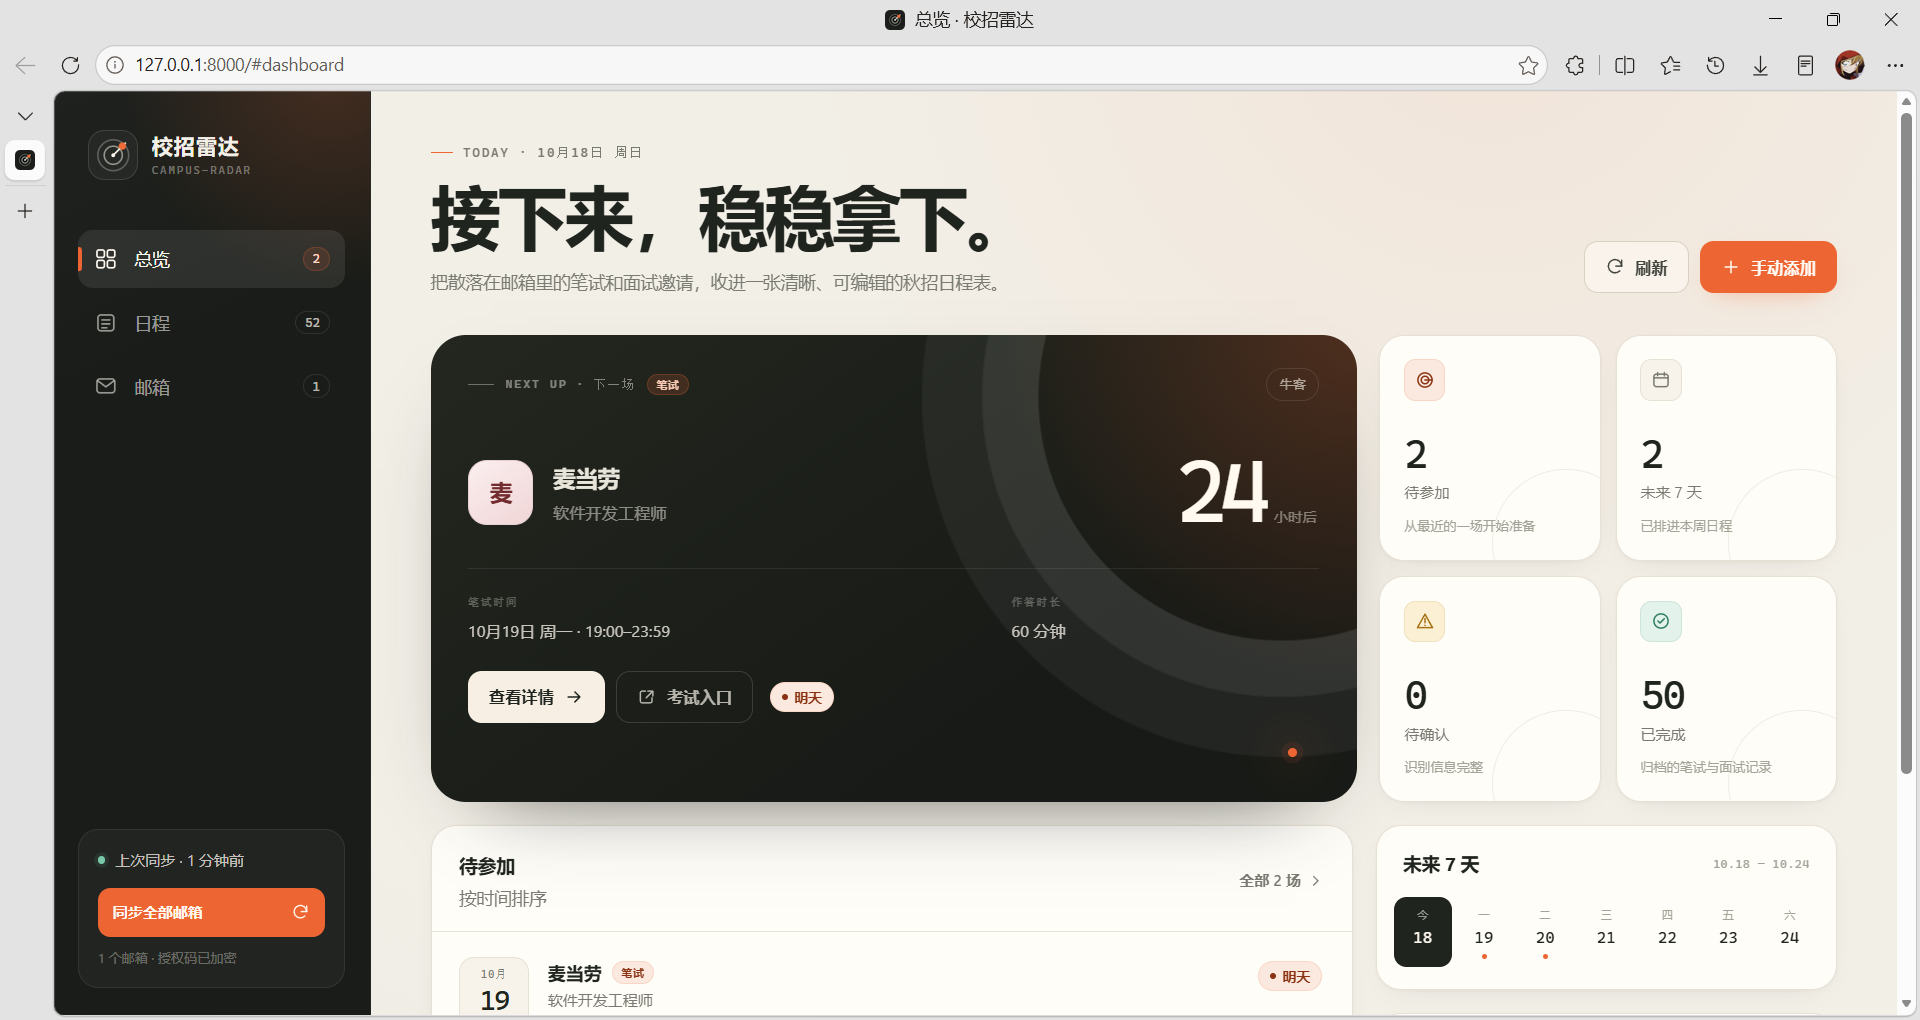
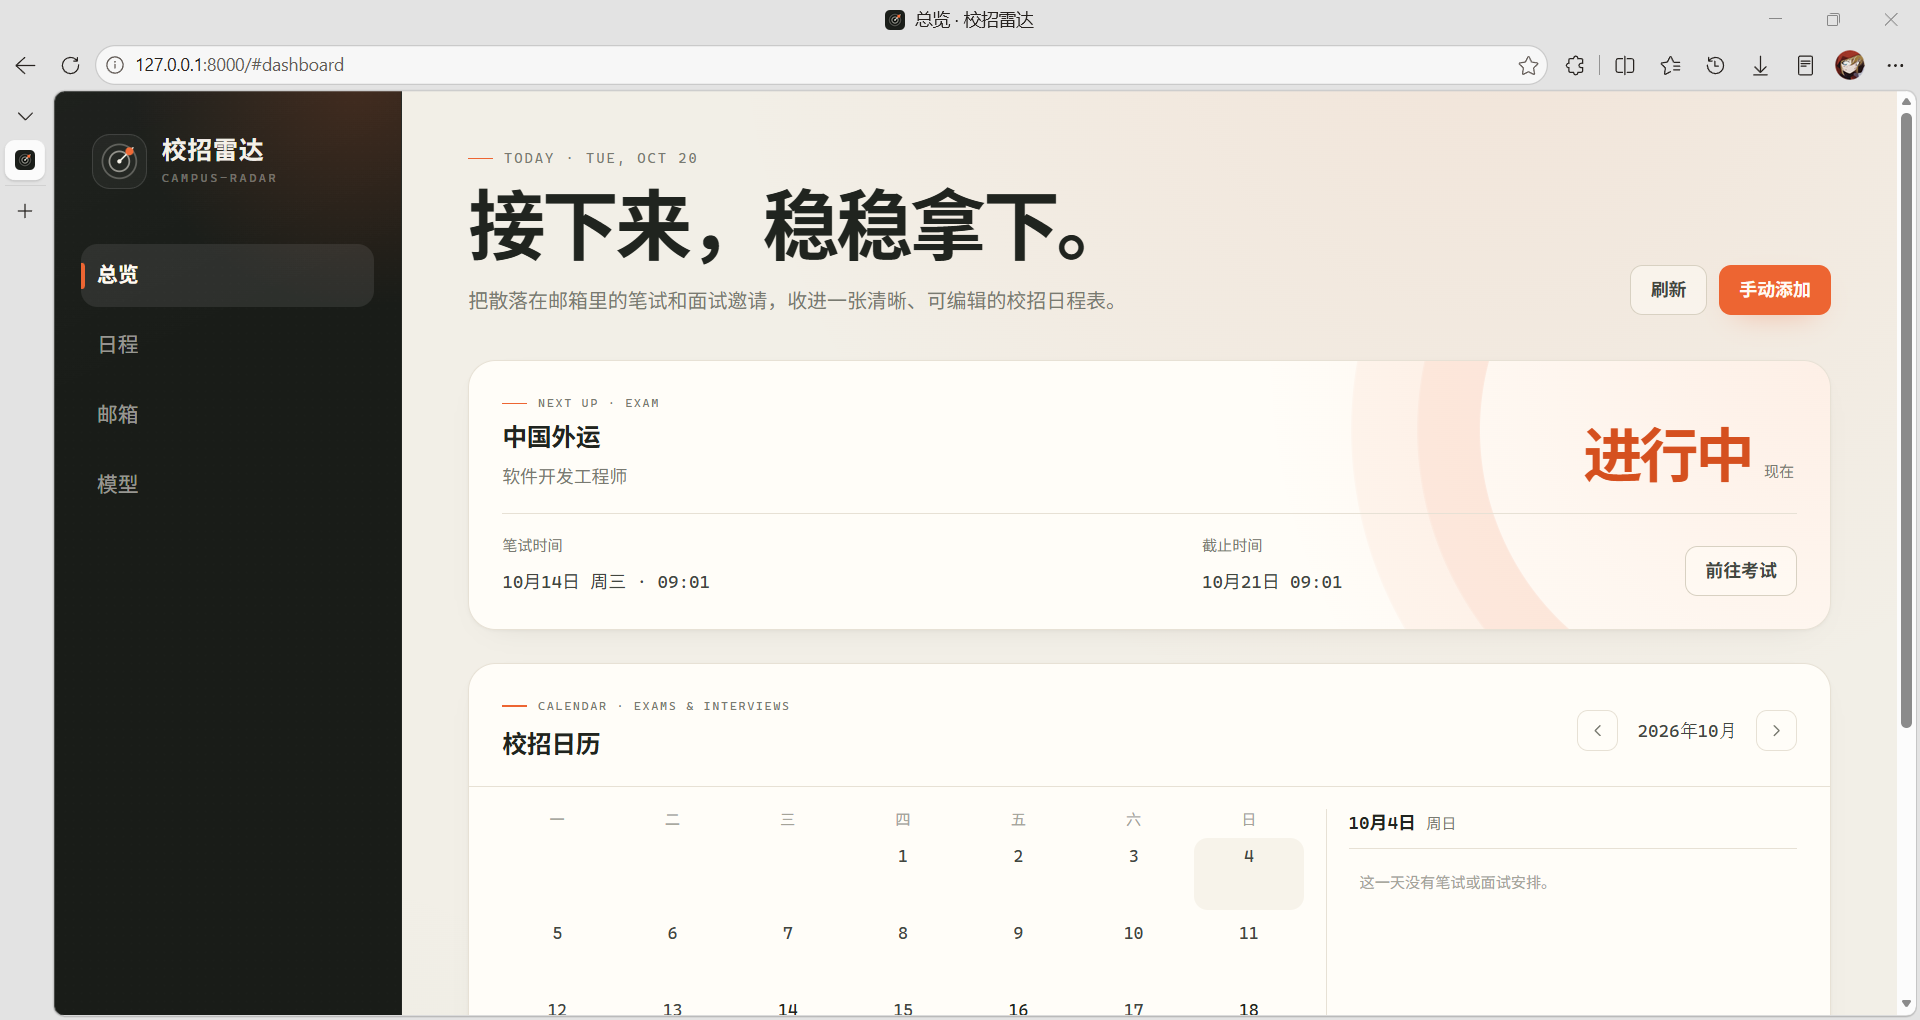
docs: refresh README and unify entry link label

diff --git a/static/app.js b/static/app.js
@@ -441,7 +441,7 @@ function eventNoun(event) {
 }
 
 function eventLinkLabel(event) {
-  return isInterviewEvent(event) ? "面试入口" : "考试入口";
+  return isInterviewEvent(event) ? "前往面试" : "前往考试";
 }
 
 function modeLabel(mode) {
@@ -1251,7 +1251,7 @@ function renderLibraryRow(event) {
       <span class="library-status ${status.className}">${escapeHtml(status.label)}</span>
     </button>
     <div class="library-row-actions">
-      ${url ? `<a class="quick-action keep-mobile" href="${escapeHtml(url)}" target="_blank" rel="noopener noreferrer" title="打开${eventLinkLabel(event)}" aria-label="打开${eventLinkLabel(event)}">${icon("external", 14)}</a>` : ""}
+      ${url ? `<a class="quick-action keep-mobile" href="${escapeHtml(url)}" target="_blank" rel="noopener noreferrer" title="${eventLinkLabel(event)}" aria-label="${eventLinkLabel(event)}">${icon("external", 14)}</a>` : ""}
       <button class="quick-action keep-mobile${isDone ? " is-done" : ""}" type="button" data-action="toggle-done" data-id="${event.id}" title="${isDone ? "标记为待参加" : "标记为已完成"}" aria-label="${isDone ? "标记为待参加" : "标记为已完成"}">${icon("check", 14)}</button>
     </div>
   </article>`;
@@ -1840,7 +1840,7 @@ function renderDrawer() {
     <div class="drawer-footer">
       <div class="drawer-footer-actions">
         ${mode === "edit" ? `<button class="button button-ghost button-small is-danger" type="button" data-action="delete-event" data-id="${event.id}">删除</button>
-        ${entryUrl ? `<a class="button button-ghost button-small" href="${escapeHtml(entryUrl)}" target="_blank" rel="noopener noreferrer">${interview ? "前往面试" : "前往考试"}</a>` : ""}` : ""}
+        ${entryUrl ? `<a class="button button-ghost button-small" href="${escapeHtml(entryUrl)}" target="_blank" rel="noopener noreferrer">${eventLinkLabel(event)}</a>` : ""}` : ""}
         <button class="button button-ghost button-small" type="button" data-action="${mode === "edit" ? "cancel-edit" : "close-drawer"}">取消</button>
         <button class="button button-ghost button-small" type="submit" form="event-form" data-submit-event>${mode === "create" ? `添加${KIND_LABELS[kind]}` : "保存修改"}</button>
       </div>

diff --git a/README.md b/README.md
@@ -10,7 +10,7 @@
   <img src="https://img.shields.io/badge/local--first-ready-green" alt="local-first">
 </p>
 
-通过 IMAP 只读连接招聘邮箱，识别笔试、测评与面试邮件，提取公司、岗位、时间、面试轮次、截止确认、平台、入口链接和会议信息，整理成一张可按类型筛选的日程看板。默认完全本地处理；配置 API Key 后可接入 OpenAI 兼容大模型，提升非标准邮件的识别率。
+通过 IMAP 只读连接招聘邮箱，识别笔试、测评与面试邮件，提取公司、岗位、时间、面试轮次、截止确认、平台、入口链接和会议信息，整理成校招日历和可按类型筛选的日程清单。默认完全本地处理；配置 API Key 后可接入 OpenAI 兼容大模型，提升非标准邮件的识别率。
 
 ---
 
@@ -22,10 +22,9 @@
 | **笔试与面试识别** | 区分笔试 / 测评邀请、面试邀请与提醒，过滤宣讲会、成绩、拒信、感谢信、投递成功、Offer、问卷、面经和招聘广告 |
 | **关键信息抽取** | 公司、岗位、时间、面试轮次、截止确认、平台、链接、会议号、密码和地点 |
 | **提醒合并** | 同一场笔试或面试的邀请与提醒合并，改期邮件更新原记录 |
-| **日程看板** | 下一场安排、未来 7 天、截止提醒、待确认信息，一屏查看 |
-| **类型筛选** | 按全部 / 笔试 / 面试筛选，按状态快速分组 |
-| **手动修正** | 所有字段可编辑，支持完成、取消、忽略和删除；手动添加时可选择类型 |
-| **重新识别** | 重扫此前跳过的邮件，补抓遗漏的笔试或面试安排，不重复生成已有记录 |
+| **日程看板** | 下一场安排、校招日历和当天安排，一屏查看 |
+| **类型筛选** | 按全部 / 笔试 / 面试筛选，按待参加 / 待确认 / 已结束 / 已完成 / 已忽略分组 |
+| **手动修正** | 所有字段可编辑，状态分为待参加、已完成、已忽略，支持删除；手动添加时可选择类型 |
 | **无明确时间** | 只要求“尽快完成”时，按收件时间匹配 09:00 / 14:00 / 19:00 的建议时间；明确“收到后 N 个自然日内完成”时，开始时间取收件时间，并标记为待确认 |
 | **大模型识别** | 填写 API Key 后，大模型先判断邮件是否包含有效安排，再抽取字段；营销、结果通知和问卷可直接否决 |
 | **本地优先** | 邮件、密钥和数据保存在本机，默认不向云端发送邮件内容 |
@@ -69,7 +68,7 @@ python run.py
 1. 在「邮箱」页面填写邮箱地址，系统会根据域名自动识别服务商，并提示对应的授权码获取方式。
 2. 首次同步默认检查最近 30 天的最多 300 封邮件。
 3. 在「日程」中查看识别结果，处理「待确认」记录。
-4. 需要补识别时，点击邮箱卡片上的「重新识别」。
+4. 需要检查新邮件时，点击邮箱卡片上的「立即同步」，也可以等待后台定时同步。
 
 > 这里需要的是邮箱服务商生成的授权码 / 应用专用密码，通常不是网页登录密码。
 
@@ -87,7 +86,7 @@ python run.py
 
 > DeepSeek 请使用 `https://api.deepseek.com/v1`，不要填写 `/anthropic` 路径。本地 Ollama 可填 `http://127.0.0.1:11434/v1`，并填写一个占位 Key。
 
-AI 生成的记录会显示「AI 识别」并进入待确认。时间会尽量依据模型给出的邮件原文片段重新解析；缺少原文证据时会提示重点核对。只有通过招聘关键词初筛的邮件会发送到你配置的接口，邮箱授权码不会发送。
+AI 生成的记录会进入待确认。时间会尽量依据模型给出的邮件原文片段重新解析；缺少原文证据时会提示重点核对。只有通过招聘关键词初筛的邮件会发送到你配置的接口，邮箱授权码不会发送。
 
 同步时邮件仍按顺序从 IMAP 读取，但 AI 请求会按配置的并发数并行发出；识别结果仍按邮件从新到旧的顺序写库，保证合并与去重行为不变。
 
@@ -166,7 +165,7 @@ pip install -r requirements-dev.txt
 python -m pytest
 ```
 
-测试覆盖中文 / 英文笔试与面试邮件、时间解析、改期合并、提醒去重、重新识别、大模型识别、本地规则补全与失败回退，以及 API CRUD，当前共 96 个测试。
+测试覆盖中文 / 英文笔试与面试邮件、时间解析、改期合并、提醒去重、重新识别、大模型识别、本地规则补全与失败回退，以及 API CRUD，当前共 97 个测试。
 
 ## 贡献
 
